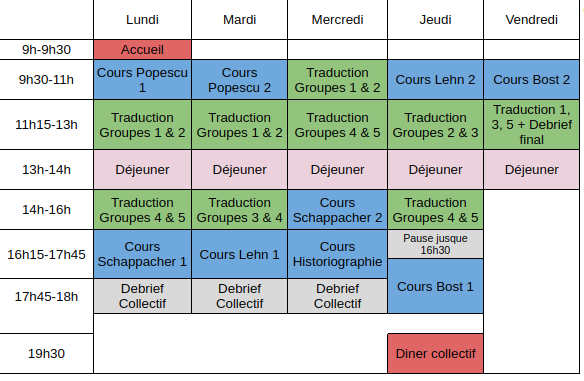
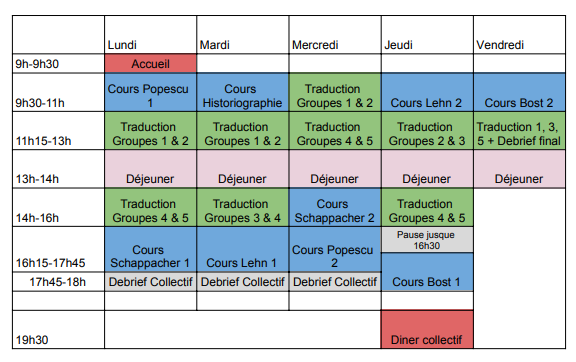
added intro into index, fixed justifying text, changed scheduled image and fixed patricks scheduled on abstracts

diff --git a/index.html b/index.html
@@ -13,6 +13,7 @@
     
     <title>Brill-Noether meeting</title>
 
+
 </head>
 
 <body>
@@ -46,10 +47,10 @@
 
     <h2>About the meeting</h2>
     <p>
-        Lorem ipsum dolor sit amet, consectetur adipiscing elit. Vestibulum dignissim et est et euismod. Fusce et metus tempus, pellentesque ex at, convallis nulla. Ut fringilla commodo tincidunt. Fusce sed est eu massa placerat iaculis eu at mauris. Nullam ut mollis nisi, quis malesuada risus. Interdum et malesuada fames ac ante ipsum primis in faucibus. Nam ipsum tortor, suscipit non tincidunt vel, bibendum in libero. Nulla facilisi. Pellentesque vitae neque metus. Cras quis est pharetra, vestibulum nisl et, viverra ipsum. Etiam porta dignissim purus, quis tempor metus volutpat eu. Praesent pulvinar libero eget purus tincidunt finibus.
+The group gathered during this workshop has started, two years ago, to work on an English translation of a report that Alexander Brill & Max Noether published in 1894 under the title <i> Die Entwicklung der Theorie der algebraischen Functionen in älterer und neuerer Zeit </i>. This report covers the history of algebraic functions as seen by the authors, notably in the 19th century, offering a remarkably broad historical approach to the topic. This book is still challenging from a mathematical viewpoint, and it remains of interest for present-day mathematicians. In addition, this work is an important document for historians and philosophers of mathematics, especially for those interested in 19th century geometry and algebra. More importantly, the report illustrates how, in the 19th century, it was relatively common for mathematicians to carry out research in the history of mathematics. It thus constitutes an emblematic document for historians and philosophers of mathematics who are trying to come to grips with the way history of mathematics was practiced in the 19th century. Indeed, one of the issues at stake in this report is how the authors' own mathematical production <i>stricto sensu</i> meshed with their historical researches.
     </p>
     <p>
-        Lorem ipsum dolor sit amet, consectetur adipiscing elit. Vestibulum dignissim et est et euismod. Fusce et metus tempus, pellentesque ex at, convallis nulla. Ut fringilla commodo tincidunt. Fusce sed est eu massa placerat iaculis eu at mauris. Nullam ut mollis nisi, quis malesuada risus. Interdum et malesuada fames ac ante ipsum primis in faucibus. Nam ipsum tortor, suscipit non tincidunt vel, bibendum in libero. Nulla facilisi. Pellentesque vitae neque metus. Cras quis est pharetra, vestibulum nisl et, viverra ipsum. Etiam porta dignissim purus, quis tempor metus volutpat eu. Praesent pulvinar libero eget purus tincidunt finibus.
+The primary aim of this workshop is to pursue this collective effort towards a comprehensive translation and commentary of this report, as we work towards making the text of the report available to mathematicians as well as to historians and philosophers of mathematics. Due to it having both mathematical and historical facets, this project gathers an interdisciplinary team consisting of mathematicians, historians, and philosophers. For this reason, the workshop will also include a range of courses on modern mathematics (especially algebraic geometry) and on historiographical practices to the members of this group. 
     </p>
 
     <h2>Organizers</h2>

diff --git a/sections/abstracts.html b/sections/abstracts.html
@@ -51,8 +51,8 @@
                 Monday  <br>
                 9:30h - 11h. <br>
                  <br>
-              Tuesday <br>
-                9:30h - 11h.
+              Wednesday <br>
+                16:15h - 17:45h.
             </td>
             <td class="title">
                Introduction to singularities of plane algebraic curves
@@ -65,7 +65,7 @@
         </tr>
         <tr>
             <td class="abstract">
-       Lorem ipsum dolor sit amet, consectetur adipiscing elit. Vestibulum dignissim et est et euismod. Fusce et metus tempus, pellentesque ex at, convallis nulla. Ut fringilla commodo tincidunt. Fusce sed est eu massa placerat iaculis eu at mauris. Nullam ut mollis nisi, quis malesuada risus. Interdum et malesuada fames ac ante ipsum primis in faucibus. Nam ipsum tortor, suscipit non tincidunt vel, bibendum in libero. Nulla facilisi. Pellentesque vitae neque metus. Cras quis est pharetra, vestibulum nisl et, viverra ipsum. Etiam porta dignissim purus, quis tempor metus volutpat eu. Praesent pulvinar libero eget purus tincidunt finibus.
+
             </td>
         </tr>
     </table>
@@ -90,7 +90,7 @@
         </tr>
         <tr>
             <td class="abstract">
-       Lorem ipsum dolor sit amet, consectetur adipiscing elit. Vestibulum dignissim et est et euismod. Fusce et metus tempus, pellentesque ex at, convallis nulla. Ut fringilla commodo tincidunt. Fusce sed est eu massa placerat iaculis eu at mauris. Nullam ut mollis nisi, quis malesuada risus. Interdum et malesuada fames ac ante ipsum primis in faucibus. Nam ipsum tortor, suscipit non tincidunt vel, bibendum in libero. Nulla facilisi. Pellentesque vitae neque metus. Cras quis est pharetra, vestibulum nisl et, viverra ipsum. Etiam porta dignissim purus, quis tempor metus volutpat eu. Praesent pulvinar libero eget purus tincidunt finibus.
+
             </td>
         </tr>
     </table>
@@ -115,7 +115,7 @@
         </tr>
         <tr>
             <td class="abstract">
-       Lorem ipsum dolor sit amet, consectetur adipiscing elit. Vestibulum dignissim et est et euismod. Fusce et metus tempus, pellentesque ex at, convallis nulla. Ut fringilla commodo tincidunt. Fusce sed est eu massa placerat iaculis eu at mauris. Nullam ut mollis nisi, quis malesuada risus. Interdum et malesuada fames ac ante ipsum primis in faucibus. Nam ipsum tortor, suscipit non tincidunt vel, bibendum in libero. Nulla facilisi. Pellentesque vitae neque metus. Cras quis est pharetra, vestibulum nisl et, viverra ipsum. Etiam porta dignissim purus, quis tempor metus volutpat eu. Praesent pulvinar libero eget purus tincidunt finibus.
+
             </td>
         </tr>
     </table>

diff --git a/assets/main.css b/assets/main.css
@@ -14,7 +14,7 @@ body{
     background-size: cover;
     background-attachment: fixed;
     color: #505050; 
-    text-align:left;
+    text-align:justify;
     font-family:'Roboto',sans-serif;
     font-size:1em;
     line-height:1.5em;
@@ -32,7 +32,7 @@ h1{font-size:2.67em;}
 h2{font-size:2.00em;}
 h3{font-size:1.67em;}
 h4{font-size:1.33em;}
-p{list-style:none; margin:24px auto 24px auto; padding:0px; width:900px; text-align:left;}
+p{list-style:none; margin:24px auto 24px auto; padding:0px; width:900px; text-align: justify;}
 li a, p a {text-decoration:underline; text-decoration-color:#37a987;}
 ul{list-style:none; margin:24px auto 24px auto; padding:0px; width:800px; text-align:left;}
 ul li{list-style:none; margin:0px auto 0px auto; padding:0px; text-align:left;}
